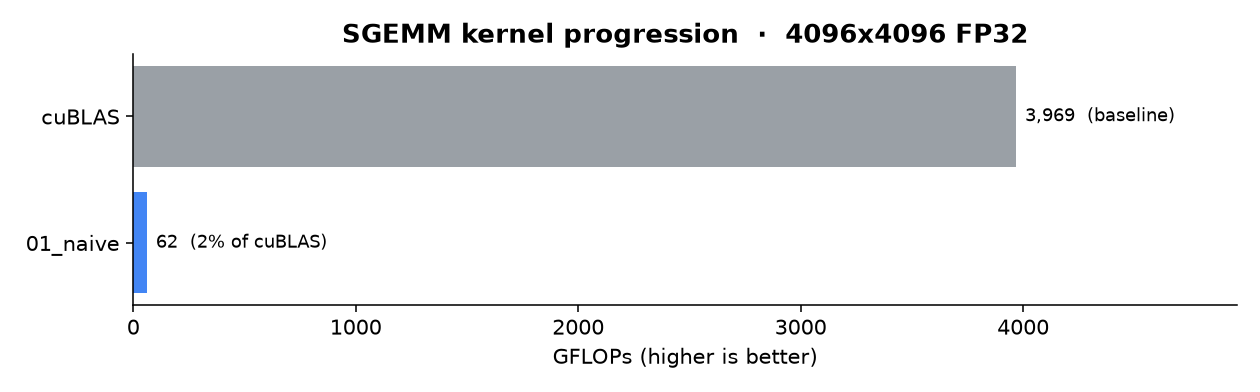
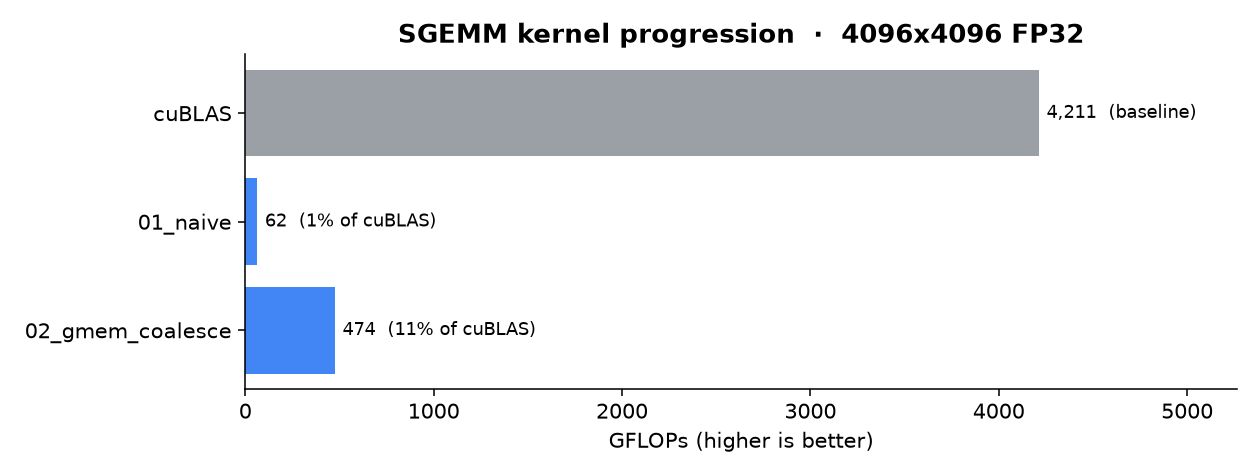
kernel 2 logging

Changed region(s): [[0.0, 0.0306, 0.9905, 0.949], [0.1857, 0.8571, 0.2167, 0.8878], [0.0929, 0.8265, 0.1238, 0.8571]]

diff --git a/cuda-sgemm/README.md b/cuda-sgemm/README.md
@@ -8,9 +8,9 @@ Working through Simon Boehm's [CUDA matmul optimization post](https://siboehm.co
 
 | # | kernel | GFLOPs | % cuBLAS |
 |---|--------|-------:|---------:|
-| 0 | cuBLAS | 3969 | 100% |
-| 1 | naive | 62 | 1.6% |
-| 2 | gmem coalesce | — | — |
+| 0 | cuBLAS | 4211 | 100% |
+| 1 | naive | 62 | 1.5% |
+| 2 | gmem coalesce | 474 | 11% |
 | 3 | shared-mem blocking | — | — |
 | 4 | 1D blocktiling | — | — |
 | 5 | 2D blocktiling | — | — |
@@ -20,11 +20,18 @@ Working through Simon Boehm's [CUDA matmul optimization post](https://siboehm.co
 
 ## Writeups
 
+### Preliminary Info
+I'm using T4 GPU (google Colab). Specs: 8100 GLOPs, 320 GB/s memory bandwidth. 
+
 ### Kernel 1 — Naive
+Our inner loop is fetching 2 numbers (8 bytes), multiplying them and eventually adding it to tmp (2 math ops). This means I'm getting 0.25 math ops per byte.
+
+Even with max bandwidth, this would mean I get 320 * 0.25 = 80 GFLOPs at best (ceiling). Since I'm getting ~62 GFLOPs on this kernel (when max possible is 8100), I can confidently say that a major part to optimize is either how much math I'm doing per byte of retrieval (justifiable by these numbers) and/or how fast I'm retreiving the bytes themselves (not in terms of literal bandwidth speed [cause at 320 max GFLOPs are still low], but in terms of the pattern in which I'm retreiving them which could be slowing down GFLOPs).
+
+But the bigger realization is that matmul doesn't *have* to be memory-bound at all. The least memory I could possibly move is reading A, B, C once + writing C back — ~270MB for 4096², which this card moves in ~0.85ms (270MB / 320 GB/s). The actual math is ~137 billion ops, which takes ~17ms at 8100 GFLOPs. So the math is ~20x slower than the minimum memory movement, meaning if I retrieved memory efficiently this should actually be compute-bound. The naive kernel breaks that in the two exact ways above: no reuse means each thread re-reads its whole row/col from scratch (so I move way more than that 270MB minimum), and the scattered pattern means I only use a fraction of the 320 GB/s. So the memory-bound-ness here is self-inflicted — both levers (reuse + pattern) are what the later kernels fix.
 
 ### Kernel 2 — Global memory coalescing
-
-<!-- Add one short section per kernel as you implement it. -->
+By making each warp's 32 threads read contiguous memory, one fetch now feeds many threads at once instead of mostly wasting bytes — so each warp does far more useful work per byte fetched. More useful computations per byte retrieved in a given interval bumped GFLOPs from ~62 to ~474 (~8x which logically makes sense, ~11% of cuBLAS).
 
 ## Run
 